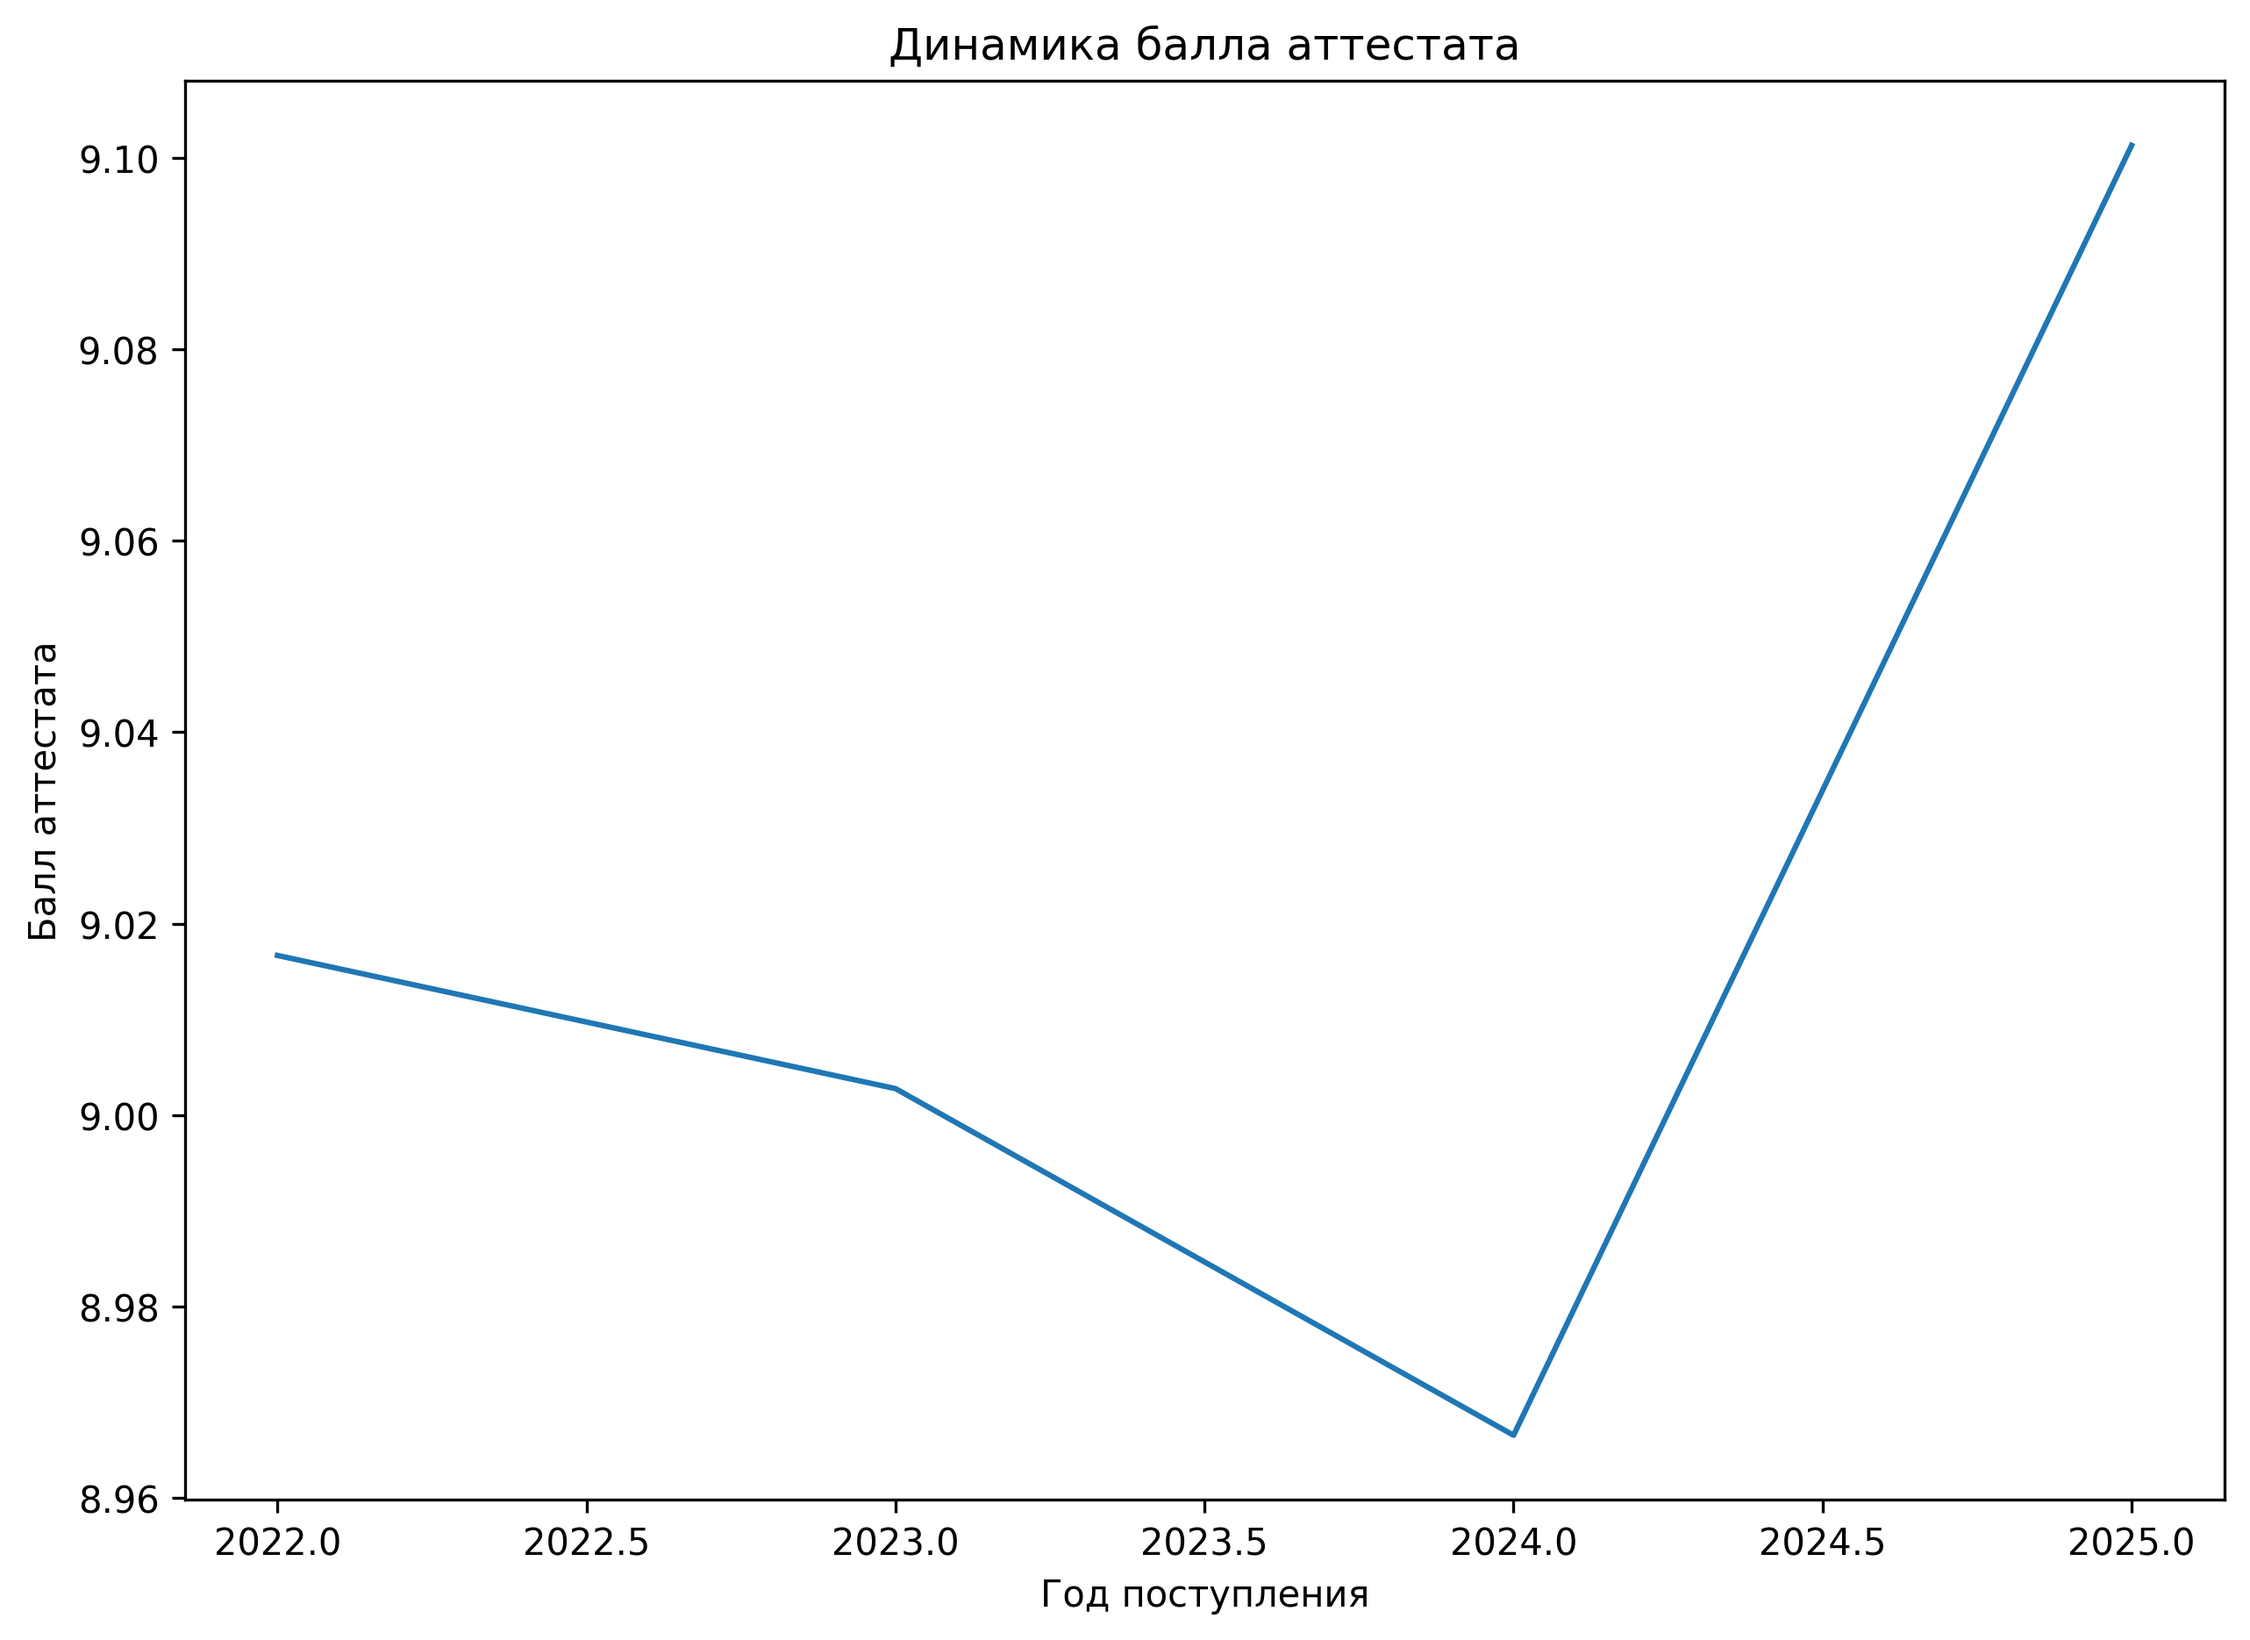
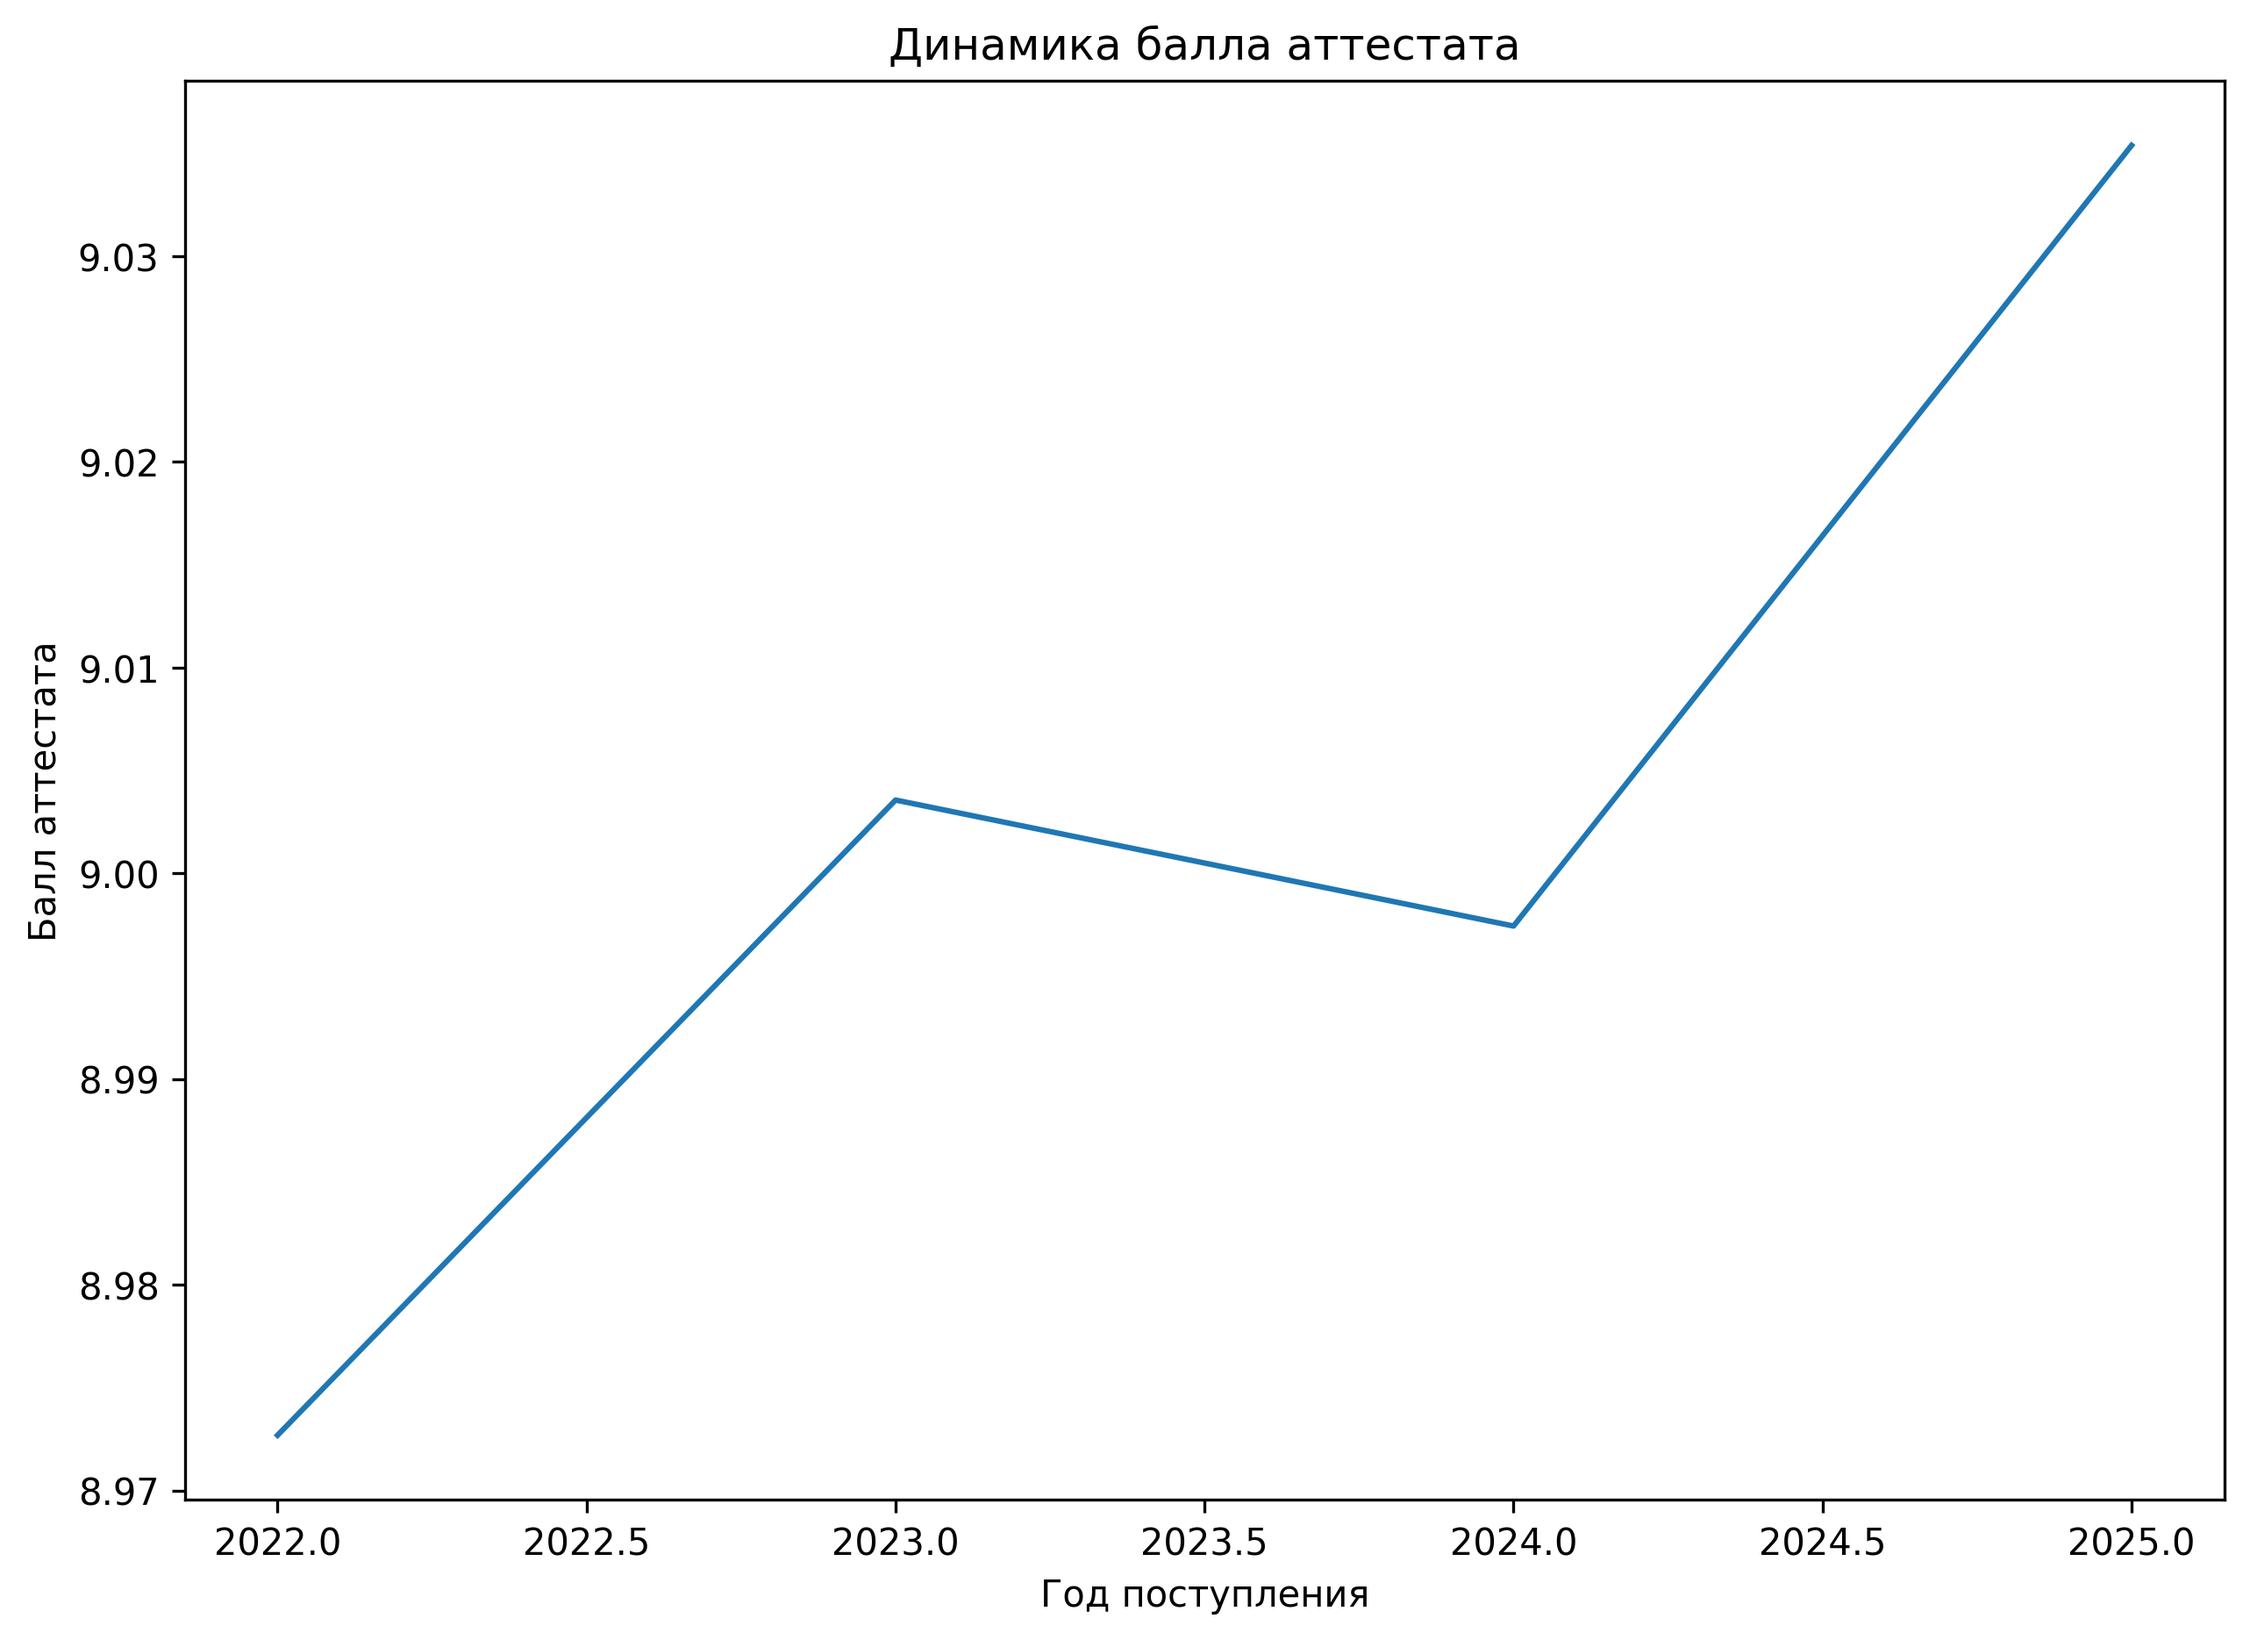
Finished Task

diff --git a/Part3/Task.py b/Part3/Task.py
@@ -79,13 +79,13 @@ plt.xlabel("Год поступления")
 plt.ylabel("Проходной балл")
 plt.savefig("av_pass_score.png", dpi=300)
 
+#* amount of people on each specialty
 specs_amount = data['Специальность'].value_counts()
 plt.figure(figsize=(10,7))
 sns.barplot(x=specs_amount.index, y=specs_amount.values, palette="viridis")
 plt.title("Количество поступивших студентов по специальностям")
 plt.xlabel("Специальность")
 plt.ylabel("Количество студентов")
-plt.xticks(rotation=45)  # чтобы подписи не накладывались
 plt.grid(axis='y', linestyle='--', alpha=0.7)
-plt.tight_layout()  # подгоняет макет
-plt.show()
+plt.tight_layout()
+plt.savefig("people_on_spec.png", dpi=300)
